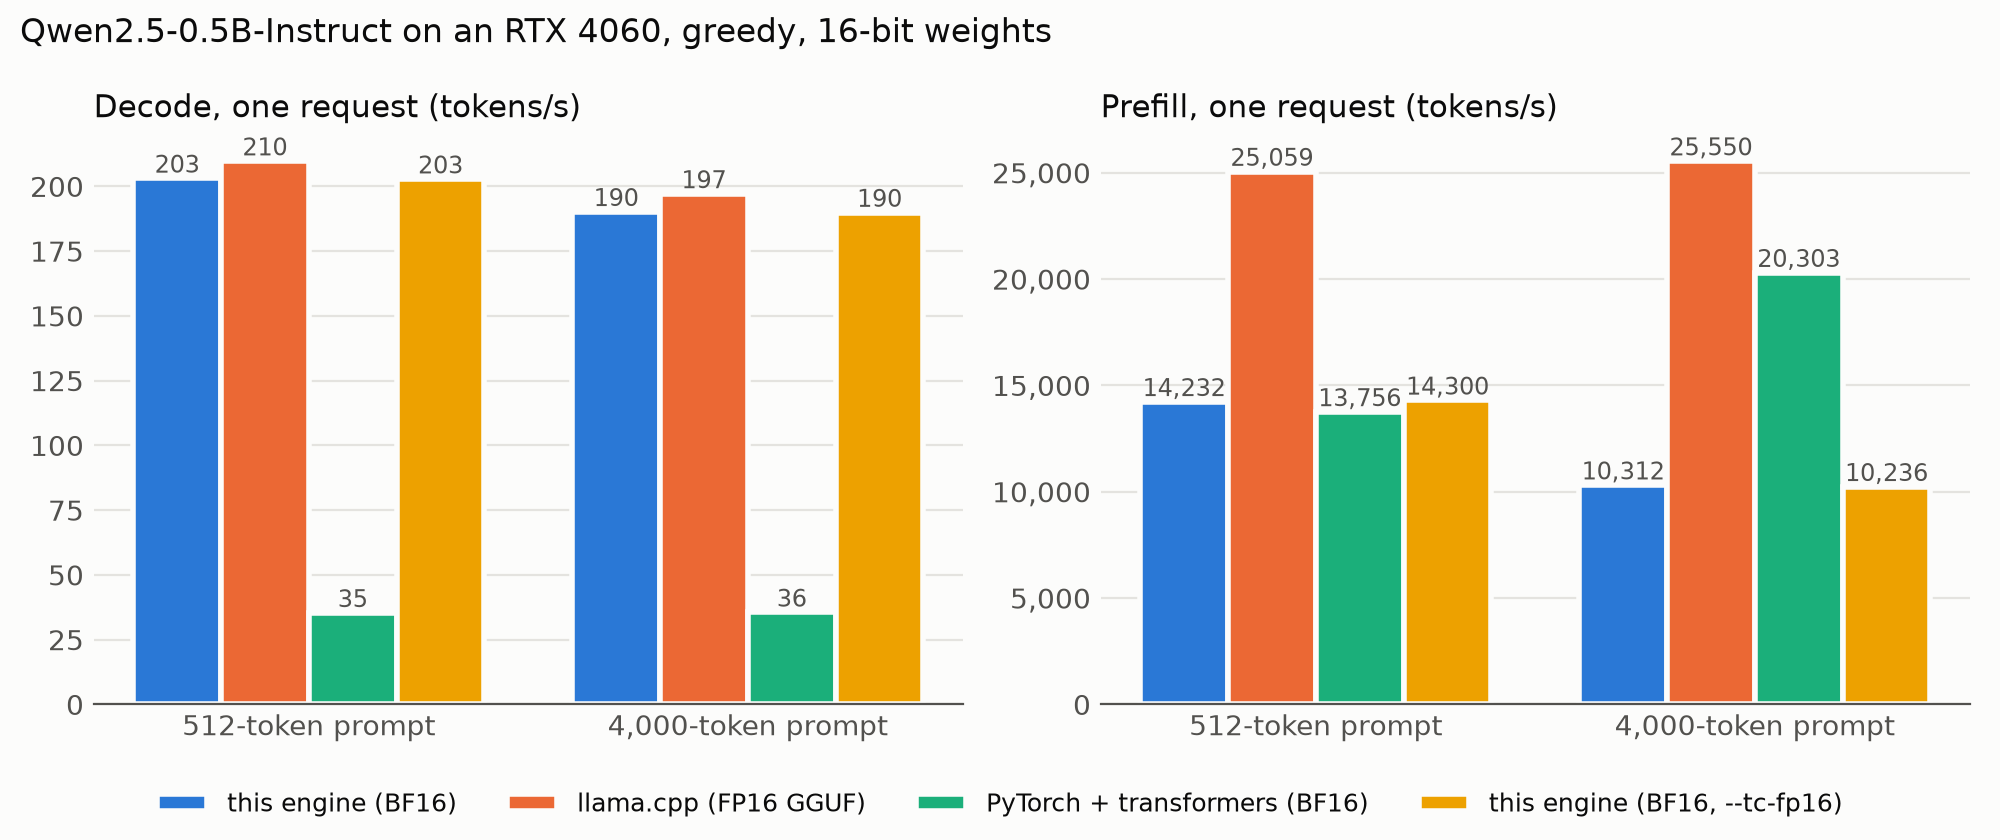
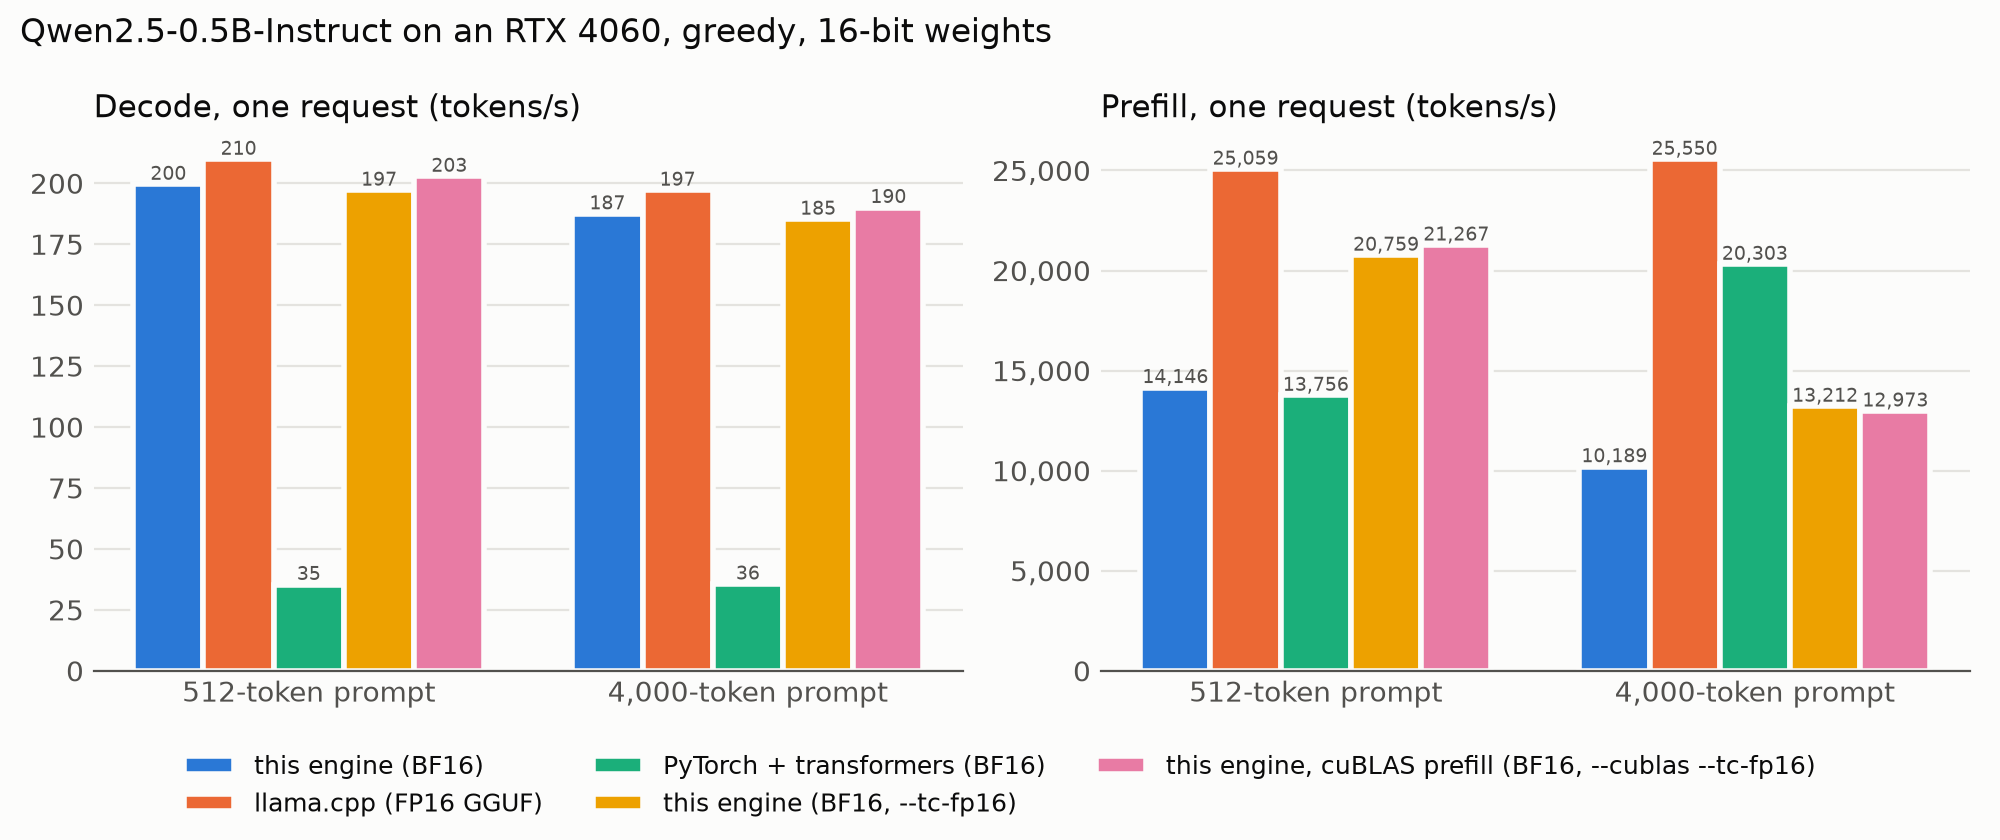
cuBLAS yardstick and bench fix: hand-written prefill matmul within 2.5% of cuBLAS

diff --git a/scripts/compare.py b/scripts/compare.py
@@ -13,8 +13,9 @@ Workloads (greedy decoding, every engine on the GPU, 16-bit weights and KV cache
 
 Engines:
   - this engine: `ie bench` and `ie serve-bench --same-length`, BF16 weights, FP16 KV cache,
-    twice: with its default exact tensor-core matmuls (two BF16 passes) and with --tc-fp16
-    (one FP16 pass, as the other two engines do)
+    three times: with its default exact tensor-core matmuls (two BF16 passes), with --tc-fp16
+    (one FP16 pass, as the other two engines do), and with --cublas --tc-fp16 (prefill matmuls
+    by NVIDIA's cuBLAS in one BF16 pass: how far the hand-written kernel is from the vendor's)
   - llama.cpp: a prebuilt CUDA release (llama-bench, llama-batched-bench), the official
     FP16 and Q8_0 GGUF files (downloaded into models/gguf once), flash attention on
   - PyTorch: Hugging Face transformers, BF16, SDPA attention, no torch.compile
@@ -44,14 +45,16 @@ BATCH_PROMPT = 512
 GGUF_REPO = "Qwen/Qwen2.5-0.5B-Instruct-GGUF"
 GGUF_FILES = {"f16": "qwen2.5-0.5b-instruct-fp16.gguf", "q8_0": "qwen2.5-0.5b-instruct-q8_0.gguf"}
 
-ENGINES = ["this engine", "this engine, FP16 tc", "llama.cpp", "PyTorch"]  # table order
+ENGINES = ["this engine", "this engine, FP16 tc", "this engine, cuBLAS", "llama.cpp", "PyTorch"]
 # Chart order: neighbouring bars must be easy to tell apart (orange and yellow side by side
 # fail the palette check), so the FP16 variant goes last, next to aqua.
-CHART_ORDER = ["this engine", "llama.cpp", "PyTorch", "this engine, FP16 tc"]
-IE_VARIANTS = {"this engine": [], "this engine, FP16 tc": ["--tc-fp16"]}
+CHART_ORDER = ["this engine", "llama.cpp", "PyTorch", "this engine, FP16 tc", "this engine, cuBLAS"]
+IE_VARIANTS = {"this engine": [], "this engine, FP16 tc": ["--tc-fp16"],
+               "this engine, cuBLAS": ["--cublas", "--tc-fp16"]}
 LABELS = {  # what each engine runs, for the tables
     "this engine": "this engine (BF16)",
     "this engine, FP16 tc": "this engine (BF16, --tc-fp16)",
+    "this engine, cuBLAS": "this engine, cuBLAS prefill (BF16, --cublas --tc-fp16)",
     "llama.cpp": "llama.cpp (FP16 GGUF)",
     "PyTorch": "PyTorch + transformers (BF16)",
 }
@@ -265,7 +268,7 @@ def tables(r):
 
 # Reference categorical palette, slots 1-3 in fixed order; text in ink colors, never series colors.
 COLORS = {"this engine": "#2a78d6", "llama.cpp": "#eb6834", "PyTorch": "#1baf7a",
-          "this engine, FP16 tc": "#eda100"}
+          "this engine, FP16 tc": "#eda100", "this engine, cuBLAS": "#e87ba4"}
 SURFACE, INK, INK_2, GRID = "#fcfcfb", "#0b0b0b", "#52514e", "#e4e3df"
 
 
@@ -305,17 +308,17 @@ def charts(r):
                               label=LABELS[e])
                 for bar, v in zip(bars, vals):
                     ax.text(bar.get_x() + bar.get_width() / 2, v, f"{v:,.0f}", ha="center",
-                            va="bottom", fontsize=8.5, color=INK_2)
+                            va="bottom", fontsize=8.5 if len(engines) <= 3 else 7, color=INK_2)
             ax.set_xticks(range(len(PROMPTS)))
             ax.set_xticklabels([f"{p:,}-token prompt" for p in PROMPTS])
             ax.yaxis.set_major_formatter(thousands)
             ax.set_title(title, loc="left", fontsize=11, color=INK)
         handles, labels = axes[0].get_legend_handles_labels()
-        fig.legend(handles, labels, frameon=False, loc="lower center", ncol=min(len(engines), 4),
+        fig.legend(handles, labels, frameon=False, loc="lower center", ncol=min(len(engines), 3),
                    fontsize=9)
         fig.suptitle(f"Qwen2.5-0.5B-Instruct on an {gpu}, greedy, 16-bit weights", x=0.01, ha="left",
                      fontsize=12, color=INK)
-        fig.tight_layout(rect=(0, 0.08, 1, 1))
+        fig.tight_layout(rect=(0, 0.12 if len(engines) > 3 else 0.08, 1, 1))
         fig.savefig(DOCS / "bench_single.png", dpi=200, facecolor=SURFACE)
         plt.close(fig)
 
@@ -325,13 +328,21 @@ def charts(r):
     if engines:
         fig, ax = plt.subplots(figsize=(10, 4.6), facecolor=SURFACE)
         style(ax)
+        ends = []  # (last value, x) per line, labelled after drawing
         for e in engines:
             ns = [n for n in BATCHES if str(n) in b[e]]
             vals = [b[e][str(n)] for n in ns]
             ax.plot(ns, vals, color=COLORS[e], linewidth=2, marker="o", markersize=6,
                     markeredgecolor=SURFACE, markeredgewidth=1.5, label=LABELS[e])
-            ax.annotate(f"{vals[-1]:,.0f}", (ns[-1], vals[-1]), xytext=(8, 0),
-                        textcoords="offset points", va="center", fontsize=9, color=INK_2)
+            ends.append((vals[-1], ns[-1]))
+        # End labels, pushed apart where lines finish close together.
+        gap = 0.045 * max(v for v, _ in ends)
+        placed = []
+        for v, x in sorted(ends):
+            y = v if not placed or v - placed[-1] >= gap else placed[-1] + gap
+            placed.append(y)
+            ax.annotate(f"{v:,.0f}", (x, v), xytext=(x * 1.1, y), textcoords="data", va="center",
+                        fontsize=9, color=INK_2)
         ax.set_xscale("log", base=2)
         ax.set_xticks(BATCHES)
         ax.set_xticklabels([str(n) for n in BATCHES])

diff --git a/src/main.cpp b/src/main.cpp
@@ -16,7 +16,8 @@
 //
 // Performance options: --device cpu|cuda (default: cuda if available)
 //                      --no-graph, --no-tensor-cores (CUDA, for comparisons)
-//                      --tc-fp16 (CUDA: tensor-core matmuls in one FP16 pass, ~2x faster prefill)
+//                      --tc-fp16 (CUDA: tensor-core matmuls in one FP16 pass instead of two BF16)
+//                      --cublas (CUDA: prefill matmuls by cuBLAS, to compare with this engine's kernel)
 //                      --kv f32|f16 (CUDA KV cache precision, default f32)
 //                      --weights f32|bf16|int8 (default bf16)  --threads N (default: physical cores)
 //                      --kernel scalar|avx2 (default: avx2 if compiled in)
@@ -104,7 +105,7 @@ void usage() {
       "\n"
       "options: --max-tokens N  --ctx N  --temp T  --top-k K  --top-p P  --rep R  --seed S  --greedy\n"
       "         --device cpu|cuda  --weights f32|bf16|int8  --threads N  --kernel scalar|avx2\n"
-      "         --no-graph  --no-tensor-cores  --tc-fp16  --kv f32|f16\n");
+      "         --no-graph  --no-tensor-cores  --tc-fp16  --cublas  --kv f32|f16\n");
 }
 
 double seconds_since(Clock::time_point t0) {
@@ -181,6 +182,7 @@ struct Options {
   bool graphs = true;            // CUDA: replay each decode step as a recorded graph
   bool tensor_cores = true;      // CUDA: tensor-core GEMM for multi-token (prefill) matmuls
   bool tc_fp16 = false;          // CUDA: those matmuls in one FP16 pass instead of the exact BF16 split
+  bool cublas = false;           // CUDA: prefill matmuls by cuBLAS (comparison)
   bool kv_f16 = false;           // CUDA: KV cache as FP16 (half the memory) instead of FP32
   std::string weights = "bf16";
   int threads = 0;           // 0 = one per physical core
@@ -222,6 +224,7 @@ Options parse_options(const std::vector<std::string>& args, size_t first) {
     else if (a == "--no-graph") o.graphs = false;
     else if (a == "--no-tensor-cores") o.tensor_cores = false;
     else if (a == "--tc-fp16") o.tc_fp16 = true;
+    else if (a == "--cublas") o.cublas = true;
     else if (a == "--kv") {
       const std::string v = next();
       if (v != "f32" && v != "f16") throw std::runtime_error("--kv must be f32 or f16");
@@ -280,6 +283,7 @@ void apply_compute_options(const Options& o) {
   set_tensor_cores(o.tensor_cores);
 #ifdef IE_WITH_CUDA
   ie::cuda::set_tc_fp16(o.tc_fp16);
+  ie::cuda::set_cublas(o.cublas);
 #endif
 }
 
@@ -569,6 +573,9 @@ BenchResult run_bench(ie::Runner& model, const ie::Tokenizer& tok, int prompt_to
 
 int cmd_bench(const Options& o) {
   if (o.positional.empty()) { usage(); return 1; }
+  // GPU options (--tc-fp16, --cublas, ...); each configuration below then sets
+  // its own threads, CPU kernel and tensor-core switch.
+  apply_compute_options(o);
   const fs::path model_dir = o.positional[0];
   ie::Tokenizer tok(model_dir.string());
 
@@ -628,7 +635,7 @@ int cmd_bench(const Options& o) {
     BenchResult r = run_bench(*model, tok, o.prompt_tokens, o.gen_tokens);
     const bool gpu = c.device == "cuda";
     std::printf("| %s | %s | %s | %s | %.1f | %.1f | %.1f |\n", c.device.c_str(), c.weights.c_str(),
-                gpu ? (std::string("cuda") + (c.graphs ? " graph" : "") + (c.tensor_cores ? (o.tc_fp16 ? " + tc fp16" : " + tc") : "")).c_str()
+                gpu ? (std::string("cuda") + (c.graphs ? " graph" : "") + (c.tensor_cores ? std::string(o.cublas ? " + cublas" : " + tc") + (o.tc_fp16 ? " 1-pass" : "") : std::string())).c_str()
                     : ie::kernel_name(c.kernel),
                 gpu ? "-" : std::to_string(c.threads).c_str(), r.prefill_tps, r.decode_tps, r.gbps);
     std::fflush(stdout);

diff --git a/src/cuda/cuda_runner.h b/src/cuda/cuda_runner.h
@@ -30,6 +30,8 @@ std::unique_ptr<BatchRunner> make_batch_runner(const Config& cfg, const Weights&
 void set_tensor_cores(bool on);
 // Tensor-core matmuls in one FP16 pass (faster) instead of the exact two-pass BF16 split.
 void set_tc_fp16(bool on);
+// For comparison: prefill matmuls (BF16 weights) done by cuBLAS instead of this engine's kernel.
+void set_cublas(bool on);
 
 // Compares every CUDA kernel with the CPU reference on random data. Returns 0 if all pass.
 int run_selftest();

diff --git a/README.md b/README.md
@@ -5,17 +5,16 @@ It loads Hugging Face `safetensors` weights and generates text on an NVIDIA GPU.
 
 Target model: **Qwen2.5-0.5B-Instruct** (download needs no license approval). Development GPU: RTX 4060 (sm_89, 8 GB).
 
-> Status: **all five phases done; prefill speed is the open item.** The whole forward pass runs on
-> an RTX 4060 with hand-written CUDA kernels and CUDA graphs: **213.8 tok/s decode with BF16** (211 GB/s, 97% of the
-> measured memory bandwidth) and **361.6 tok/s with INT8**, 127x the first working version, while still
-> matching Hugging Face at every layer. Prefill uses tensor cores and FlashAttention-style tiled
-> attention (**13,148 tok/s** on a 512-token prompt, **9,432 tok/s** on 4,000 tokens), and
-> flash-decoding keeps decode fast at long context (**~180 tok/s after a 4,000-token prompt**). A paged
-> KV cache and continuous batching serve many requests at once: **2,346 tok/s across 64 concurrent
-> requests** (2,485 with a 16-bit KV cache), 12.2x serving them one at a time, with every request's
-> output identical to serving it alone. `ie serve` exposes it as an OpenAI-compatible HTTP server.
-> On the same GPU, decode is within 3-5% of llama.cpp and 5.7x plain PyTorch; serving 64 requests with
-> `--tc-fp16`, 2,789 tok/s against llama.cpp's 2,555; prefill is about 57% of llama.cpp's speed
+> Status: **all five phases done; long-prompt prefill attention is the open item.** The whole
+> forward pass runs on an RTX 4060 with hand-written CUDA kernels and CUDA graphs: **213.8 tok/s decode
+> with BF16** (211 GB/s, 97% of the measured memory bandwidth) and **361.6 tok/s with INT8**, 127x the
+> first working version, while still matching Hugging Face at every layer. Prefill uses tensor cores and
+> FlashAttention-style tiled attention: **20,759 tok/s** on a 512-token prompt with `--tc-fp16` (within
+> 2.5% of the same matmuls done by NVIDIA's cuBLAS), 14,146 in the default exact mode. A paged KV cache
+> and continuous batching serve many requests at once: **2,791 tok/s across 64 concurrent requests**
+> (`--tc-fp16 --kv f16`), 13.9x serving them one at a time, with every request's output identical to
+> serving it alone; `ie serve` exposes it as an OpenAI-compatible HTTP server. On the same GPU, decode is
+> (BF16) within 3-6% of llama.cpp and 5.7x plain PyTorch, and serving 64 requests beats llama.cpp's 2,555 tok/s
 > ([comparison](#compared-with-llamacpp-and-pytorch)).
 
 ## Layout
@@ -167,7 +166,8 @@ print(reply.choices[0].message.content)
 
 Options: `--host` (default `127.0.0.1`), `--port`, `--max-batch N` (requests decoded together, default
 32), `--ctx N` (prompt + reply per request), `--kv-gb G`, `--kv f16` (16-bit KV cache: twice the
-tokens per GB), `--tc-fp16` (faster batched matmuls; both are worth using for serving), `--weights`;
+tokens per GB), `--tc-fp16` (faster prefill and batched matmuls; both are worth using for
+serving), `--weights`;
 the sampling options set the
 defaults for requests that leave them out. Besides the standard fields, requests accept `top_k` and
 `repetition_penalty`. `scripts\test_server.py` checks a plain and a streamed reply, a burst of
@@ -228,7 +228,10 @@ the model's default sampling (temperature 0.7, top-p 0.8, top-k 20): the first s
 - [x] FP16 KV cache option (`--kv f16`): half the cache memory and traffic, math still FP32;
       perplexity 14.7775 → 14.7776, serving 64 requests +6%
 - [x] Single-pass FP16 tensor-core option (`--tc-fp16`): half the tensor-core work and shared
-      memory per tile; perplexity 14.7775 → 14.7755, serving 64 requests +30% (2,152 → 2,789 tok/s)
+      memory per tile; perplexity 14.7775 → 14.7755, prefill +47% (14,146 → 20,759 tok/s on 512
+      tokens), serving 64 requests +31% (2,128 → 2,791 tok/s)
+- [x] cuBLAS yardstick (`--cublas`): prefill matmuls by NVIDIA's cuBLAS instead of the hand-written
+      kernel, same precision; the hand-written kernel is within 2.5% of it
 - [ ] Tensor-core (WMMA) version of the prefill attention
 - [ ] INT4 weight-only quantization
 - [x] Paged KV cache: 16-token pages from a shared pool, one page table per sequence; memory follows
@@ -249,20 +252,22 @@ the model's default sampling (temperature 0.7, top-p 0.8, top-k 20): the first s
 
 ## Compared with llama.cpp and PyTorch
 
-Same GPU (RTX 4060), same model, greedy decoding, 16-bit weights and KV cache everywhere:
-this engine with BF16 weights, both with its default exact tensor-core matmuls (two BF16 passes per
-tile, FP32-level accuracy) and with `--tc-fp16` (one FP16 pass, as the other two engines do);
-[llama.cpp](https://github.com/ggml-org/llama.cpp) build b12292 (CUDA, flash attention on) with
-Qwen's official FP16 GGUF; PyTorch + Hugging Face transformers in BF16 with SDPA attention (no
-`torch.compile`). `python scripts\compare.py --llama-dir <llama.cpp>` reruns everything and redraws
-the charts; raw numbers are in `docs/benchmarks.json`.
+Same GPU (RTX 4060), same model, greedy decoding, 16-bit weights and KV cache everywhere. This
+engine runs BF16 weights three ways: its default exact tensor-core matmuls (activations split into two
+BF16 halves, two passes per tile, FP32-level accuracy); `--tc-fp16` (one FP16 pass, as the other two
+engines do); and `--cublas --tc-fp16`, where NVIDIA's cuBLAS does the prefill matmuls instead of the
+hand-written kernel, as a yardstick. [llama.cpp](https://github.com/ggml-org/llama.cpp) build b12292
+(CUDA, flash attention on) runs Qwen's official FP16 GGUF; PyTorch + Hugging Face transformers runs
+BF16 with SDPA attention (no `torch.compile`). `python scripts\compare.py --llama-dir <llama.cpp>`
+reruns everything and redraws the charts; raw numbers are in `docs/benchmarks.json`.
 
-![One request: decode and prefill tokens/s for the three engines](docs/bench_single.png)
+![One request: decode and prefill tokens/s for each engine](docs/bench_single.png)
 
 | Engine | Prefill 512 tok/s | Decode @512 tok/s | Prefill 4,000 tok/s | Decode @4,000 tok/s |
 |---|--:|--:|--:|--:|
-| this engine (BF16) | 14,232 | 203.1 | 10,312 | 190.2 |
-| this engine (BF16, `--tc-fp16`) | 14,300 | 202.8 | 10,236 | 189.9 |
+| this engine (BF16, exact) | 14,146 | 199.5 | 10,189 | 187.4 |
+| this engine (BF16, `--tc-fp16`) | 20,759 | 197.1 | 13,212 | 185.2 |
+| this engine, cuBLAS prefill (`--cublas --tc-fp16`) | 21,267 | 202.8 | 12,973 | 190.0 |
 | llama.cpp (FP16 GGUF) | 25,059 | 209.8 | 25,550 | 197.1 |
 | PyTorch + transformers (BF16) | 13,756 | 35.3 | 20,303 | 35.5 |
 
@@ -273,39 +278,40 @@ Each request: a 512-token prompt and 128 generated tokens, all arriving together
 
 | Engine | 1 at once | 4 at once | 16 at once | 32 at once | 64 at once |
 |---|--:|--:|--:|--:|--:|
-| this engine (BF16) | 199 | 618 | 1,124 | 1,747 | 2,152 |
-| this engine (BF16, `--tc-fp16`) | **203** | 655 | 1,248 | **2,178** | **2,789** |
+| this engine (BF16, exact) | 195 | 605 | 1,111 | 1,713 | 2,128 |
+| this engine (BF16, `--tc-fp16`) | 201 | 646 | 1,198 | **2,176** | **2,791** |
+| this engine, cuBLAS prefill (`--cublas --tc-fp16`) | 203 | 658 | 1,257 | 2,215 | 2,804 |
 | llama.cpp (FP16 GGUF) | 183 | 655 | 1,632 | 2,154 | 2,555 |
 | PyTorch + transformers (BF16) | 33 | 128 | 489 | 893 | 1,584 |
 
 | 8-bit weights, one request | Prefill 512 tok/s | Decode @512 tok/s |
 |---|--:|--:|
-| this engine (INT8, per-row scales) | 12,265 | 327.7 |
+| this engine (INT8, per-row scales) | 10,907 | 309.3 |
 | llama.cpp (Q8_0) | 30,802 | 344.4 |
 
 What the numbers say:
 
-- **Decode is within 3-5% of llama.cpp** (BF16 203 vs 210 tok/s, INT8 328 vs 344) and 5.7x plain
-  PyTorch. Decoding one sequence is limited by how fast the weights stream from memory, and both
+- **BF16 decode is within 3-6% of llama.cpp** (197-203 vs 210 tok/s across runs) and 5.7x plain
+  PyTorch; INT8 is 5-10% behind Q8_0 (309-328 vs 344 tok/s across runs). Decoding one sequence is limited by how fast the weights stream from memory, and both
   engines are close to that limit; PyTorch loses to the per-token Python and kernel-launch overhead
   that CUDA graphs remove here.
-- **Serving many requests: with `--tc-fp16`, ahead of llama.cpp at 1, 32 and 64 requests** (2,789 vs
-  2,555 tok/s at 64), level at 4, behind at 16 (1,248 vs 1,632). Batches of 32+ run their matmuls on
-  the tensor cores, and the single-pass kernel is lighter (fewer registers, half the shared memory),
-  so more blocks fit on each SM: +30% at 64 requests over the exact mode. Perplexity is unchanged
-  (14.7775 exact, 14.7755 with `--tc-fp16`). Batches of 2-31 use the CUDA-core kernel, which is why
-  16 requests is the weak point. Plain PyTorch is behind at every size.
-- **Prefill is about 57% of llama.cpp's speed** (14,232 vs 25,059 tok/s on 512 tokens; 10,312 vs
-  25,550 on 4,000). Halving the tensor-core work with `--tc-fp16` changes nothing here, so the math
-  is not the bottleneck: this engine's GEMM is a plain 64 x 64-tile WMMA kernel that loads FP32
-  activations and converts them for every tile, and it is limited by moving data rather than by the
-  tensor cores, where cuBLAS and llama.cpp use larger tiles, lower-level MMA instructions and 16-bit
-  activations between layers. At 4,000 tokens, prefill attention (on CUDA cores here, tensor-core
-  flash attention in llama.cpp) widens the gap.
+- **The hand-written tensor-core matmul is within 2.5% of cuBLAS.** With the same precision
+  (`--tc-fp16`), prefill is 20,759 tok/s with this engine's kernel and 21,267 with cuBLAS on 512
+  tokens, and level on 4,000. The default exact mode pays for its FP32-level accuracy with two passes
+  per tile: prefill 14,146 vs 20,759 tok/s, for a perplexity difference of 0.002 (14.7775 vs 14.7755).
+- **Prefill against llama.cpp: 83% on 512 tokens, 52% on 4,000** (with `--tc-fp16`). Since the
+  matmuls match cuBLAS, the rest is elsewhere: prefill attention runs on CUDA cores here and on tensor
+  cores in llama.cpp, which costs little on short prompts and dominates long ones; activations between
+  layers are also kept in FP32 here (llama.cpp uses 16 bits), so every kernel moves twice the bytes.
+- **Serving many requests: with `--tc-fp16`, ahead of llama.cpp at 1, 32 and 64 requests** (2,791 vs
+  2,555 tok/s at 64), level at 4, behind at 16 (1,198 vs 1,632). Batches of 32+ run on the tensor cores
+  with the lighter single-pass kernel; batches of 2-31 use the CUDA-core kernel, which keeps results
+  bit-identical to running alone but is slower, which is why 16 requests is the weak point. cuBLAS
+  prefill adds almost nothing here (2,804): the decode steps dominate this workload. Plain PyTorch is
+  behind at every size.
 
-The open item is therefore the prefill GEMM itself: larger tiles, `ldmatrix`/`mma.sync` instead of
-WMMA, asynchronous copies, and keeping activations in 16 bits between layers; then tensor cores in
-prefill attention.
+The open item is therefore prefill attention on tensor cores (FlashAttention-2 style), then 16-bit
+activations between layers; the matmul kernel itself is not the bottleneck.
 
 ## Performance log
 
@@ -337,6 +343,8 @@ prefill attention.
 | 2026-11-11 | GPU: FP16 KV cache, 4,000-token prompt | 173.9 | 9755.4 | within run-to-run noise of FP32 for one sequence |
 | 2026-11-11 | **`ie serve` (HTTP, sampling), 16 simultaneous requests** | **1039.2** | - | first streamed text after 11 ms; greedy reply identical alone and under load |
 | 2026-11-12 | **GPU: `--tc-fp16`, 64 requests of 512 + 128 tokens (llama.cpp: 2,555)** | **2788.9** | - | +30% over the exact mode; perplexity 14.7755 |
+| 2026-11-12 | **GPU: `--tc-fp16`, 512-token prompt (llama.cpp: 25,059)** | 197.1 | **20759.0** | prefill +47% over the exact mode (14,146) |
+| 2026-11-12 | GPU: `--cublas --tc-fp16`, 512-token prompt | 202.8 | 21267.1 | the hand-written matmul is within 2.5% of cuBLAS |
 
 Full sweep (`ie bench --sweep`, 64-token prompt, 32 generated tokens) on a Ryzen 5 3600XT
 (6 cores / 12 threads, AVX2, dual-channel DDR4) and an RTX 4060 (8 GB):
